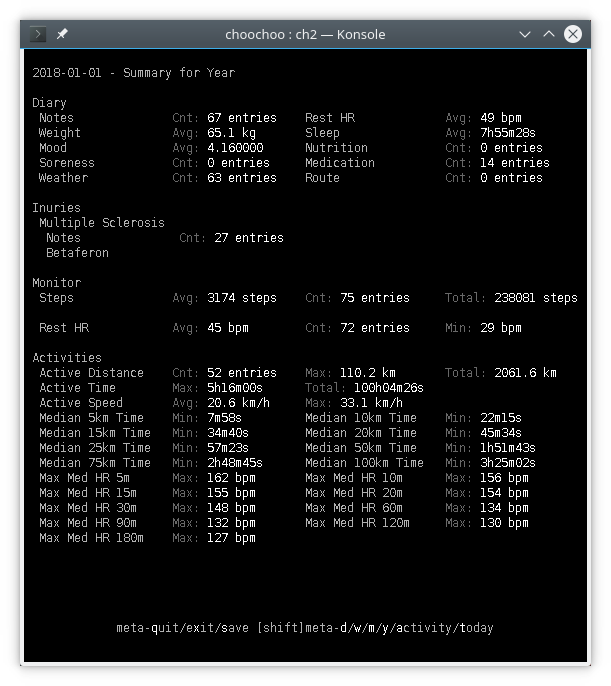
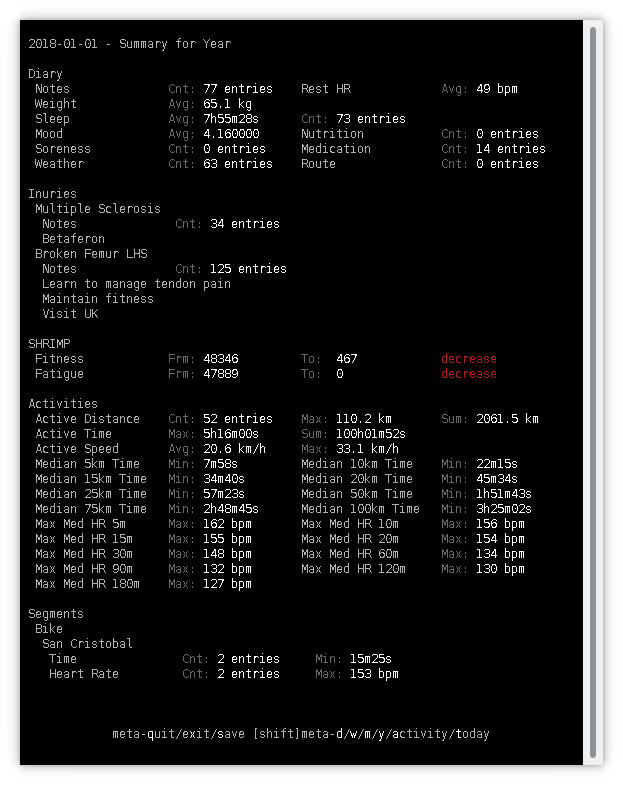
update docs

diff --git a/docs/daily-use.md b/docs/daily-use.md
@@ -51,6 +51,11 @@ activity use `alt-A`.
 
 See [configuration](configuration) for how to add additional fields.
 
+![](diary.png)
+
+Above, a typical diary entry, showing notes and HR zones for an
+activity.
+
 ### Re-calculating Statistics
 
 Summary statistics (top values per month etc) are calculated when
@@ -73,6 +78,11 @@ To see the monthly and yearly statistics use:
     > ch2 diary --month
 
     > ch2 diary --year
+
+![](diary-year.png)
+
+Above, a yearly summary, showing a severe decline in fitness due to
+injury.
 
 ## Monitoring
 
